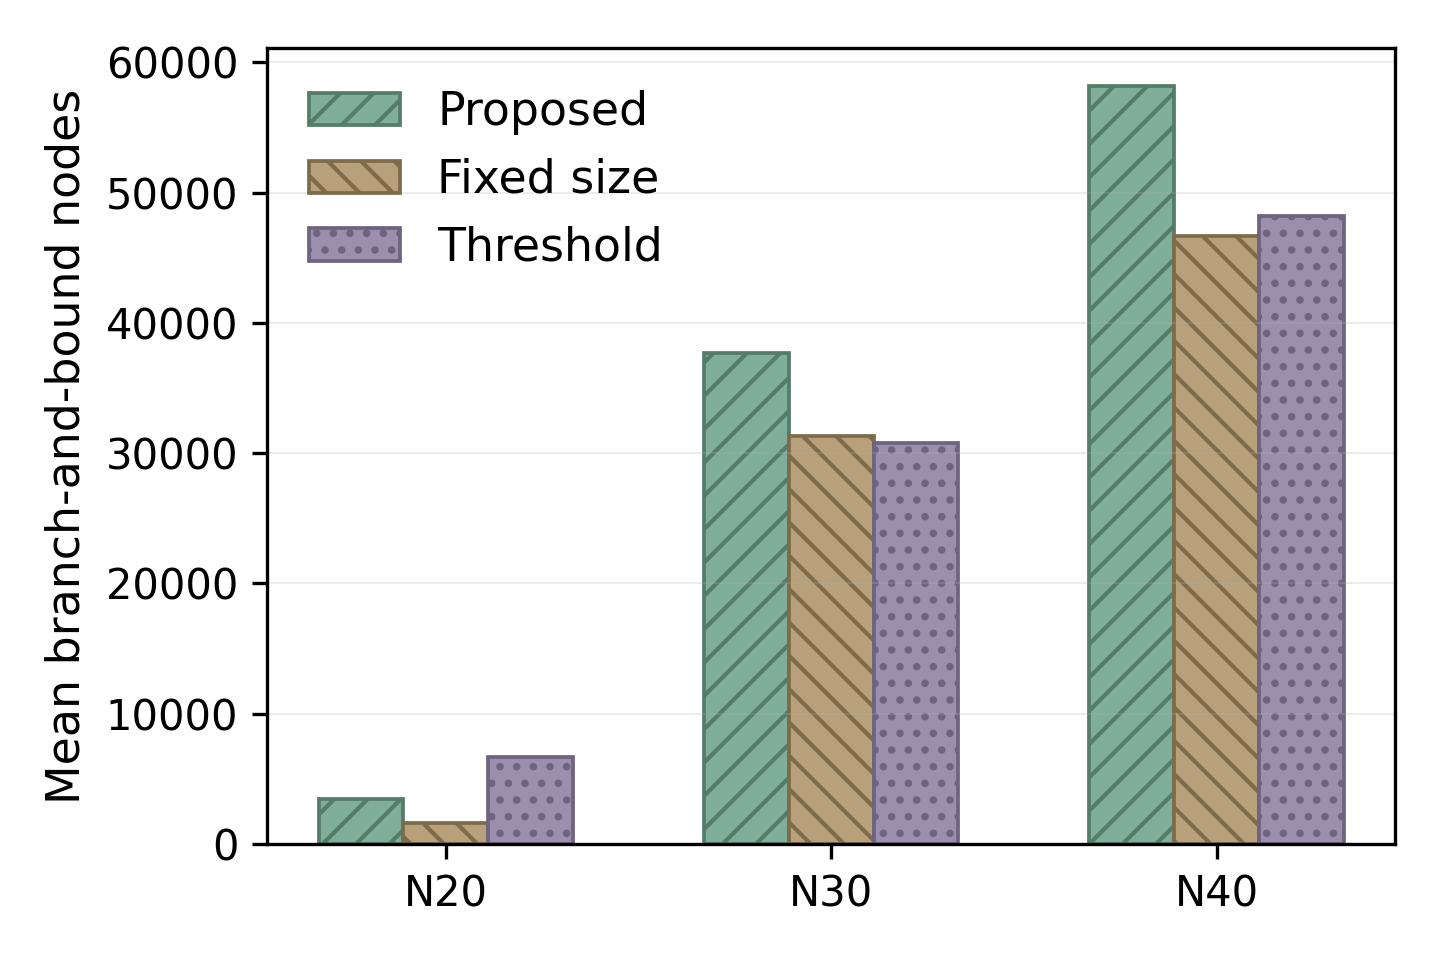
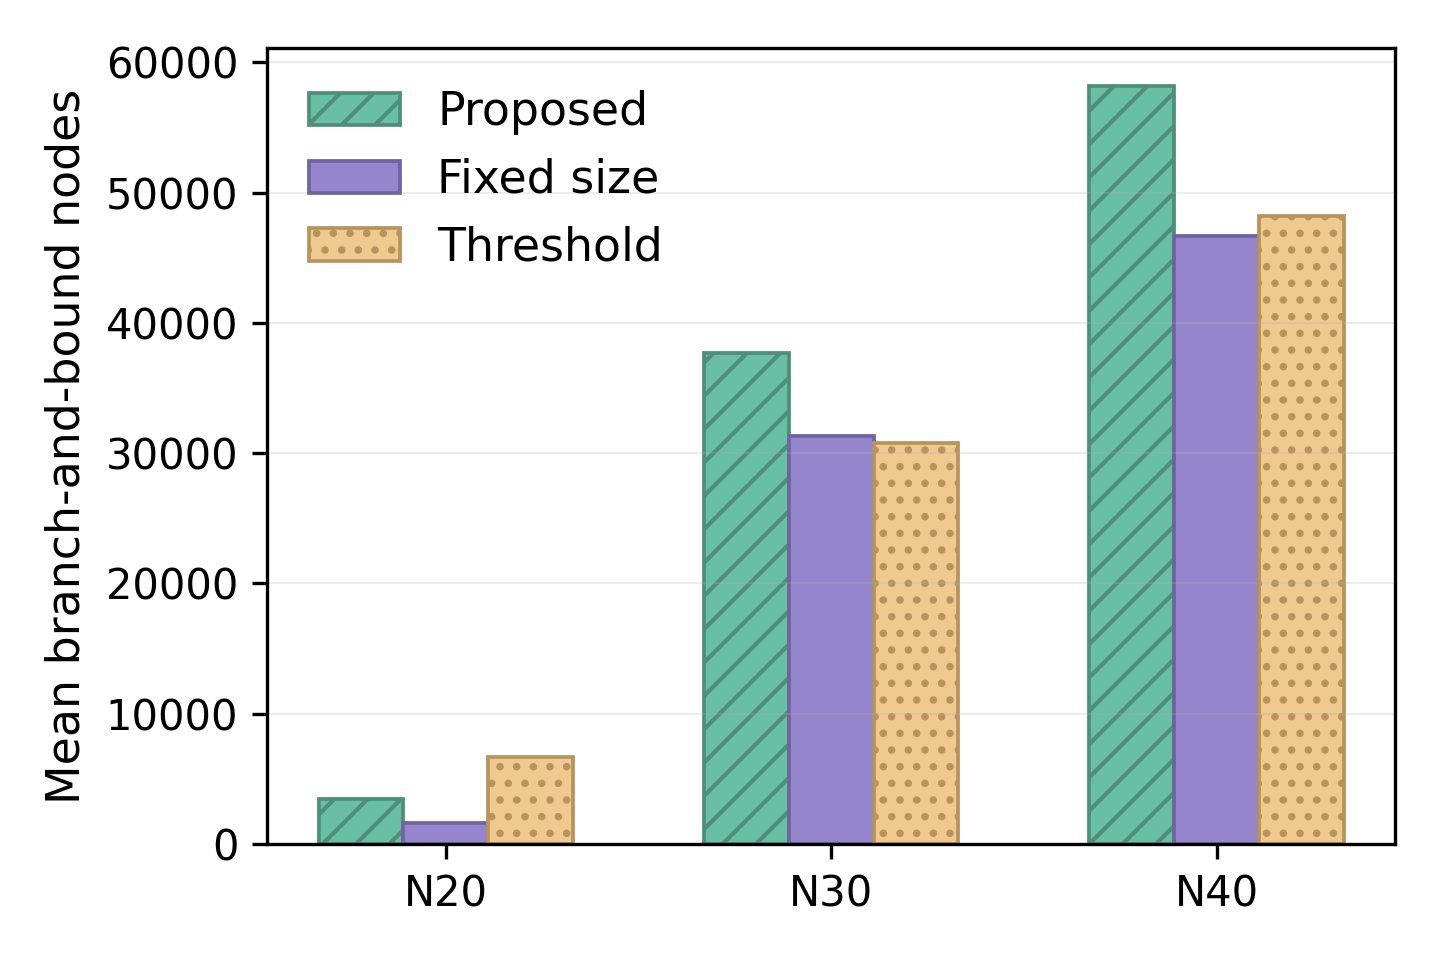
Split and restyle manuscript figures

diff --git a/paper/sections/experiments.tex b/paper/sections/experiments.tex
@@ -48,23 +48,37 @@ Among time-limited reduced models, the proposed method also maintains incumbent 
 
 \begin{figure}[t]
   \centering
-  \includegraphics[width=0.47\textwidth]{figures/dimension_reduction_by_scale.png}
-  \hfill
-  \includegraphics[width=0.47\textwidth]{figures/optimality_rate_by_scale.png}
-
-  \vspace{0.6em}
-
-  \includegraphics[width=0.62\textwidth]{figures/mip_gap_by_scale.png}
-  \caption{Controlled scalability summaries over \(N\in\{20,30,40\}\): mean downstream dimension reduction, optimality rate within the \(30\)-second limit, and mean terminal MIP gap. The proposed method retains large dimension reductions while keeping lower fixed-time gaps than the release-threshold baseline at \(N=30\) and \(N=40\).}
-  \label{fig:scalability-quality}
+  \includegraphics[width=0.62\textwidth]{figures/dimension_reduction_by_scale.png}
+  \caption{Mean downstream ordering-variable counts over \(N\in\{20,30,40\}\). The proposed method preserves substantial dimension reduction relative to vehicle-level scheduling while remaining more conservative than the fixed-size baseline.}
+  \label{fig:dimension-reduction-by-scale}
 \end{figure}
 
 \begin{figure}[t]
   \centering
-  \includegraphics[width=0.47\textwidth]{figures/runtime_by_scale.png}
-  \includegraphics[width=0.47\textwidth]{figures/nodes_by_scale.png}
-  \caption{End-to-end wall time and branch-and-bound nodes for the controlled scalability study. Vehicle-level scheduling is consistently the hardest model class, while all reduced methods remain substantially smaller and solve more often within the fixed time limit.}
-  \label{fig:scalability-runtime}
+  \includegraphics[width=0.62\textwidth]{figures/optimality_rate_by_scale.png}
+  \caption{Reduced-model optimality rate within the \(30\)-second limit. At \(N=30\) and \(N=40\), all reduced methods solve substantially more often than the vehicle-level formulation.}
+  \label{fig:optimality-rate-by-scale}
+\end{figure}
+
+\begin{figure}[t]
+  \centering
+  \includegraphics[width=0.62\textwidth]{figures/mip_gap_by_scale.png}
+  \caption{Mean terminal MIP gap under the \(30\)-second time limit. The proposed method retains lower fixed-time gaps than the release-threshold baseline at \(N=30\) and \(N=40\).}
+  \label{fig:mip-gap-by-scale}
+\end{figure}
+
+\begin{figure}[t]
+  \centering
+  \includegraphics[width=0.62\textwidth]{figures/runtime_by_scale.png}
+  \caption{Mean end-to-end wall time for the controlled scalability study. Vehicle-level scheduling remains the hardest model class, while reduced models remain much smaller.}
+  \label{fig:runtime-by-scale}
+\end{figure}
+
+\begin{figure}[t]
+  \centering
+  \includegraphics[width=0.62\textwidth]{figures/nodes_by_scale.png}
+  \caption{Mean branch-and-bound node counts for the controlled scalability study. Reduced models search substantially smaller trees than the vehicle-level formulation.}
+  \label{fig:nodes-by-scale}
 \end{figure}
 
 \begin{table}[H]

diff --git a/code/frontier_experiments/plot_scalability_summary.py b/code/frontier_experiments/plot_scalability_summary.py
@@ -16,25 +16,25 @@ LEGEND_FONTSIZE = 11
 GRID_ALPHA = 0.24
 
 METHOD_COLORS = {
-    "proposed_bound_aware": "#7FAF9A",
-    "fixed_size_closest_dimension": "#B7A07A",
-    "threshold_closest_dimension": "#9C8FAE",
+    "proposed_bound_aware": "#69BFA3",
+    "fixed_size_closest_dimension": "#9585CC",
+    "threshold_closest_dimension": "#F0C98F",
 }
 
 METHOD_EDGES = {
-    "proposed_bound_aware": "#557C69",
-    "fixed_size_closest_dimension": "#7D6B4A",
-    "threshold_closest_dimension": "#6F6480",
+    "proposed_bound_aware": "#4F8F79",
+    "fixed_size_closest_dimension": "#6F63A0",
+    "threshold_closest_dimension": "#B7945D",
 }
 
 METHOD_HATCHES = {
     "proposed_bound_aware": "///",
-    "fixed_size_closest_dimension": "\\\\\\",
+    "fixed_size_closest_dimension": "",
     "threshold_closest_dimension": "...",
 }
 
-VEHICLE_LINE = "#5B616B"
-VEHICLE_MARKER_FACE = "#D9D4CC"
+VEHICLE_LINE = "#78A8C4"
+VEHICLE_MARKER_FACE = "#D7E6EF"
 
 METHODS = (
     "proposed_bound_aware",

diff --git a/code/exhaustive_verification/plot_bound_tightness.py b/code/exhaustive_verification/plot_bound_tightness.py
@@ -20,10 +20,10 @@ LEGEND_FONTSIZE = 11
 ANNOTATION_FONTSIZE = 10
 GRID_ALPHA = 0.24
 
-BOUND_FILL = "#B7CDBE"
-BOUND_EDGE = "#6B8F7C"
-ORACLE_FILL = "#D4B4A7"
-ORACLE_EDGE = "#9A6A5C"
+BOUND_FILL = "#69BFA3"
+BOUND_EDGE = "#4F8F79"
+ORACLE_FILL = "#9585CC"
+ORACLE_EDGE = "#6F63A0"
 
 
 @dataclass(frozen=True)
